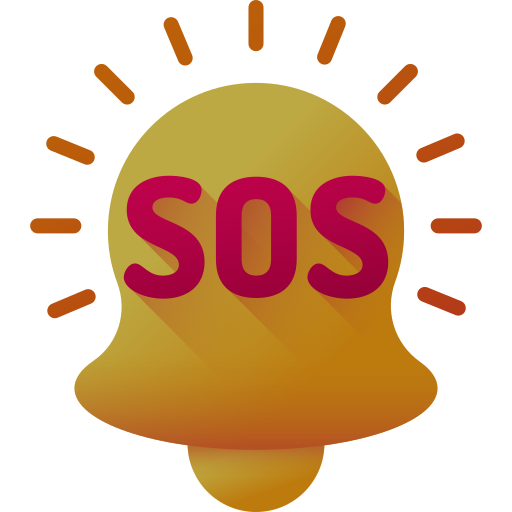
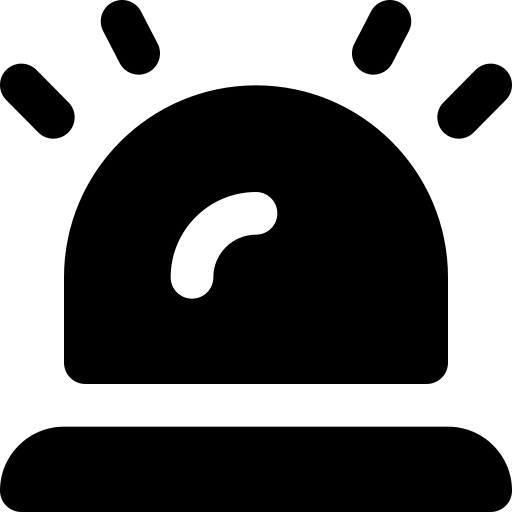
Update Child and Sign up UI

diff --git a/frontend/app/(auth)/sign-up.tsx b/frontend/app/(auth)/sign-up.tsx
@@ -1,5 +1,5 @@
 import { useState } from 'react'
-import { View, Text, TouchableOpacity, Image, FlatList } from 'react-native'
+import { View, Text, TouchableOpacity, Image, FlatList, Pressable } from 'react-native'
 import { SafeAreaView } from 'react-native-safe-area-context'
 import { LinearGradient } from 'expo-linear-gradient'
 import {router} from 'expo-router'
@@ -25,19 +25,28 @@ const SignUp = () => {
     }
 
     return (
-        <SafeAreaView className='flex-1 bg-secondary items-center justify-center'>
+        <SafeAreaView className='relative flex-1 bg-secondary items-center justify-center'>
+            {/* hide dropdown */}
+            {dropdownOpen && (
+                <Pressable 
+                    className='absolute inset-0 z-10' 
+                    onPress={() => setDropdownOpen(false)}
+                />
+            )}
             <LinearGradient 
                 className='absolute top-0 w-full h-4/5'
                 colors={["#FF6F52", "#FE9A3D"]}
                 start={{x:0, y:1}}
                 end={{x:1, y:1}}
             />
-            <View className='flex h-auto w-full items-center z-10 bg-secondary rounded-tl-full'>
-                <Text className='font-staatliches text-white text-5xl'>Create account</Text>
+            <View className='flex h-auto w-full items-center bg-secondary rounded-tl-full'>
+                <Text className='font-staatliches text-white text-5xl'>Create an account</Text>
+                <Text className='font-staatliches text-xl text-slate-500'>Just a few details before we get started</Text>
                 {/* User selection */}
-                <View className='flex-row justify-between items-center w-4/5 mt-10 mb-10'>
-                    <Text className='font-staatliches text-white text-xl'>Are you a parent or a child?</Text>
+                <View className='flex-row justify-between items-center w-4/5 mt-10'>
+                    <Text className='font-staatliches text-white text-xl'>parent or child?</Text>
                     <View className='relative z-10'>
+                        {/* selection */}
                         <TouchableOpacity 
                             className='flex-row items-center space-between rounded-lg p-1 border border-tertiary-two' 
                             onPress={() => {dropdownOpen ? setDropdownOpen(false) : setDropdownOpen(true)}}
@@ -49,12 +58,13 @@ const SignUp = () => {
                                 style={{tintColor: '#FE9A3D'}}
                                 />
                         </TouchableOpacity>
+                        {/* dropdown options */}
                         {dropdownOpen && (
                             <FlatList
                                 className='absolute left-0 top-8 w-full rounded-lg mt-1'
                                 data={userTypes}
                                 renderItem={({item}) => (
-                                    <TouchableOpacity className='bg-tertiary-two p-1' onPress={() => {setUser(item); setDropdownOpen(false);}}>
+                                    <TouchableOpacity className='bg-tertiary-two p-1' onPress={() => {setUser(item); setDropdownOpen(false)}}>
                                         <Text className='font-staatliches text-white text-center'>{item}</Text>
                                     </TouchableOpacity>
                                 )}
@@ -63,7 +73,7 @@ const SignUp = () => {
                     </View>
                 </View>
                 {/* Sign up fields */}
-                <InputField placeholder='Full Name' icon={nameIcon} value={fullName} onChangeText={setFullName} marginTop='mt-10' tint='#FF6F52'/>
+                <InputField placeholder='Name' icon={nameIcon} value={fullName} onChangeText={setFullName} tint='#FF6F52'/>
                 <InputField placeholder='Email' icon={emailIcon} value={email} onChangeText={setEmail} tint='#FF6F52'/>
                 <PasswordField placeholder='Password' tint='#FF6F52'/>
                 <PasswordField placeholder='Confirm Password' tint='#FF6F52'/>

diff --git a/frontend/app/(childTabs)/_layout.tsx b/frontend/app/(childTabs)/_layout.tsx
@@ -2,14 +2,10 @@ import { View, Text, Image, ImageSourcePropType } from 'react-native'
 import React from 'react'
 import { Tabs } from 'expo-router'
 
-import activeMapIcon from '@/assets/tabIcons/active-map.png'
-import activeChatIcon from '@/assets/tabIcons/active-chat.png'
-import activeSosIcon from '@/assets/tabIcons/active-sos.png'
-import activeProfileIcon from '@/assets/tabIcons/active-user.png'
 import mapIcon from '@/assets/tabIcons/map.png'
-import chatIcon from '@/assets/tabIcons/chat.png'
+import messagesIcon from '@/assets/tabIcons/messages.png'
 import sosIcon from '@/assets/tabIcons/sos.png'
-import profileIcon from '@/assets/tabIcons/user.png'
+import profileIcon from '@/assets/tabIcons/profile.png'
 
 import '../global.css'
 
@@ -19,19 +15,20 @@ import { SafeAreaView } from 'react-native-safe-area-context'
 // Prop types
 type tabBarIconProps = {
     focused: boolean,
-    icon: ImageSourcePropType,
-    activeIcon: ImageSourcePropType
+    icon: ImageSourcePropType
+    tabName: string
 }
 
 export default function TabLayout() {
     // Handles appearance of tab bar icon when focused or not
-    const TabBarIcon = ({focused, icon, activeIcon}: tabBarIconProps) => (
-        <View className='flex justify-center items-center mt-8 h-10'>
+    const TabBarIcon = ({focused, icon, tabName}: tabBarIconProps) => (
+        <View className='flex justify-center items-center mt-10 h-12' style={{width:60}}>
             {focused ? (
-                <Image source={activeIcon} resizeMode='contain' style={{height: 50, width: 50}} />
+                <Image source={icon} resizeMode='contain' style={{height: 25, width: 25, tintColor: 'white'}} />
             ) : (
-                <Image source={icon} resizeMode='contain' style={{height: 50, width: 50}} />
+                <Image source={icon} resizeMode='contain' style={{height: 25, width: 25, tintColor: "#64748B"}} />
             )}
+            <Text className={`font-staatliches text-sm ${focused ? 'text-white' : 'text-[#64748b]'}`}>{tabName}</Text>
         </View>
     )
 
@@ -53,28 +50,28 @@ export default function TabLayout() {
                     name='index'
                     options={{
                         title: 'Home',
-                        tabBarIcon: ({ focused }) => (<TabBarIcon focused={focused} icon={mapIcon} activeIcon={activeMapIcon}/>)
+                        tabBarIcon: ({ focused }) => (<TabBarIcon focused={focused} icon={mapIcon} tabName='Map'/>)
                     }}
                 />
                 <Tabs.Screen 
                     name='parents'
                     options={{
                         title: 'Parents',
-                        tabBarIcon: ({ focused }) => (<TabBarIcon focused={focused} icon={chatIcon} activeIcon={activeChatIcon}/>)
+                        tabBarIcon: ({ focused }) => (<TabBarIcon focused={focused} icon={messagesIcon} tabName='Messages'/>)
                     }}
                 />
                 <Tabs.Screen 
                     name='sos'
                     options={{
                         title: 'SOS',
-                        tabBarIcon: ({ focused }) => (<TabBarIcon focused={focused} icon={sosIcon} activeIcon={activeSosIcon}/>)
+                        tabBarIcon: ({ focused }) => (<TabBarIcon focused={focused} icon={sosIcon} tabName='SOS'/>)
                     }}
                 />
                 <Tabs.Screen 
                     name='profile'
                     options={{
                         title: 'Profile',
-                        tabBarIcon: ({ focused }) => (<TabBarIcon focused={focused} icon={profileIcon} activeIcon={activeProfileIcon}/>)
+                        tabBarIcon: ({ focused }) => (<TabBarIcon focused={focused} icon={profileIcon} tabName='Profile'/>)
                     }}
                 />
             </Tabs>
